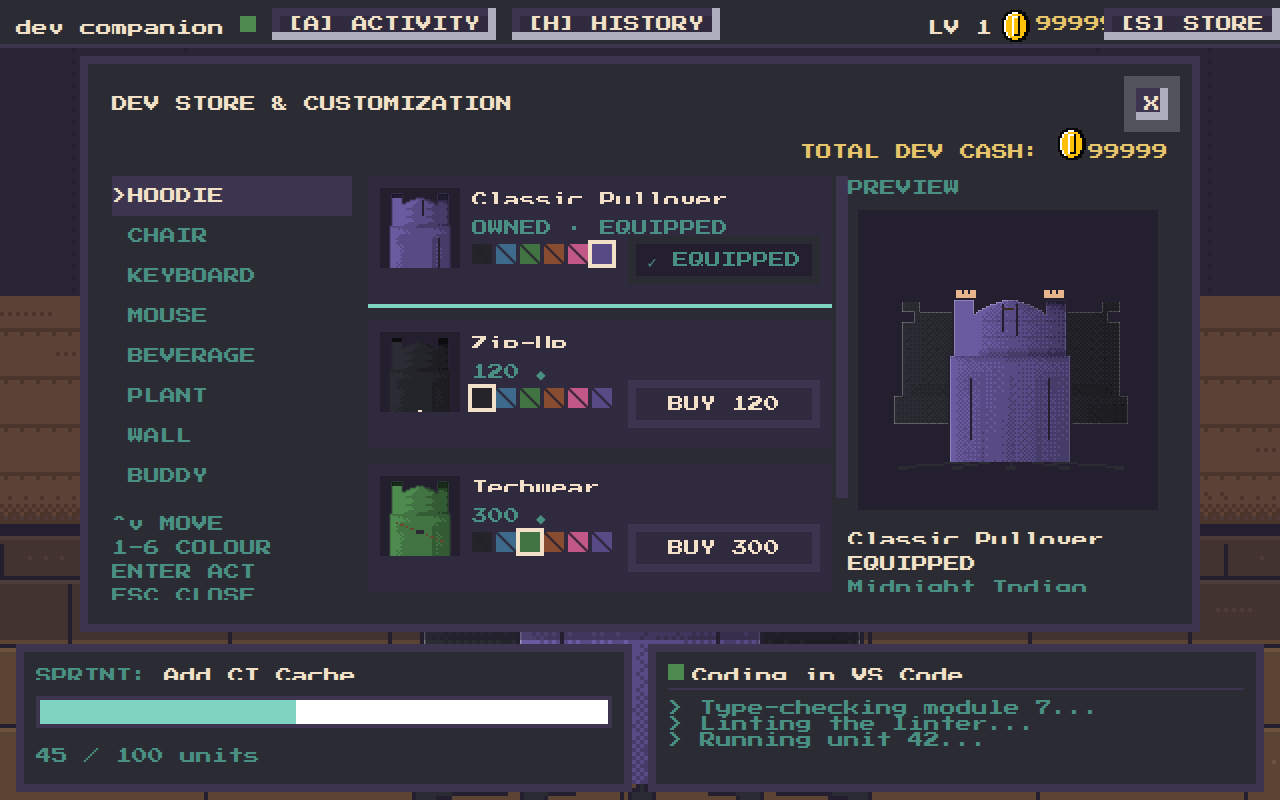
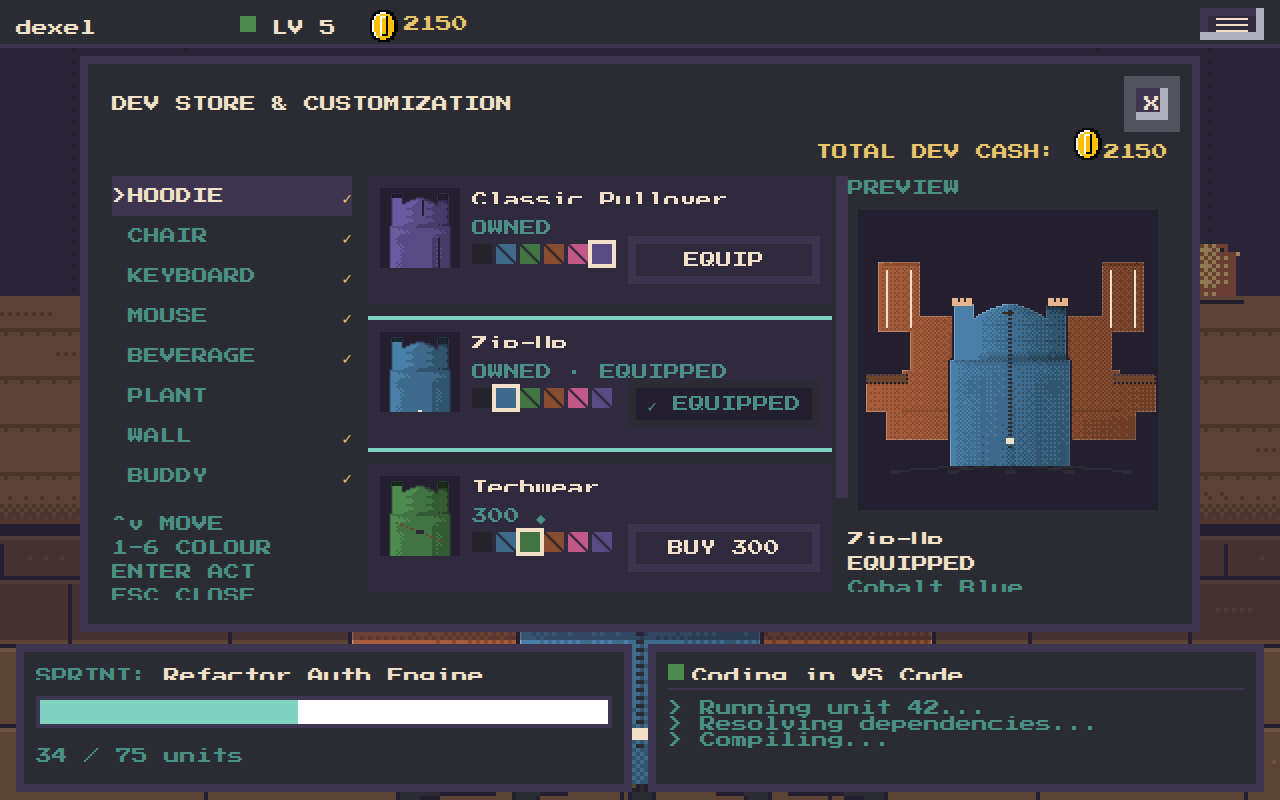
docs: refresh screenshots + add cross-platform build instructions
- Re-captured hero/store/history from the real running game: they now show the
  dexel titlebar, the hamburger menu + top-left coin, and the fixed seated
  chair (visible in the scene and the store preview).
- README "Building from source": prerequisites, `go build -o dexel .` per OS,
  a platform activity-capture matrix (macOS permissionless, Linux input group,
  Windows/other currently blind with no native provider — stated honestly per
  ADR 0010), cross-compilation notes, and a pointer to the planned Tauri app.

Claude-Session: https://claude.ai/code/session_01AUCCPCv7iGyM8erbdKH5UY

diff --git a/README.md b/README.md
@@ -46,7 +46,9 @@ frontend over a WebSocket at `http://127.0.0.1:8080`.
 
 ## Quick start
 
-Requires [Go 1.27](https://go.dev/dl/) or newer.
+Requires [Go 1.27](https://go.dev/dl/) or newer. Node/npm are **not**
+needed to run the game — only if you're changing the frontend (see
+[Building from source](#building-from-source) below).
 
 ```bash
 git clone git@github.com:jawwadzafar/dexel.git
@@ -55,31 +57,18 @@ go run .
 ```
 
 Open **http://localhost:8080**. That's it — the compiled frontend bundle is
-committed, so no Node/npm is required just to run the game.
+committed, so `go run .` alone always serves a working game with zero
+Node/npm involved.
 
 By default the server binds to `127.0.0.1:8080` (loopback only). Binding
 `-addr` beyond `127.0.0.1`/`localhost` exposes the activity monitor and your
 save file to your LAN or tailnet — the flag's own help text warns about
 this; leave it at the default unless you specifically intend that.
 
-### macOS
-
-- **No permission prompt.** The activity provider polls
-  `CGEventSourceSecondsSinceLastEventType` — a system timestamp delta, not a
-  keystroke tap — so there is no Accessibility dialog to click through.
-
-### Linux
-
-Same commands. The activity provider reads raw `/dev/input/event*` nodes,
-which needs your user in the `input` group:
-
-```bash
-sudo usermod -aG input "$USER"    # then log out and back in
-```
-
-Without that group membership the server still runs; it just can't see
-global input, so activity only counts while the browser tab itself has
-focus, and the honesty rules above freeze rather than guess at idle time.
+macOS and Linux both run the exact commands above; see
+[Building from source](#building-from-source) for platform setup (Linux
+needs one group membership), what to expect on Windows, building a
+standalone binary, and cross-compiling.
 
 ### Troubleshooting
 
@@ -91,6 +80,95 @@ focus, and the honesty rules above freeze rather than guess at idle time.
 - **Check what the server actually found:** `GET /api/health` returns the
   resolved `assetsDir`, whether `public/index.html` was found, and the
   build version.
+
+## Building from source
+
+### Prerequisites
+
+| Need | Requirement |
+|---|---|
+| Build or run the server | [Go 1.27](https://go.dev/dl/) or newer |
+| Change the frontend | Node + npm (see [`app/frontend/README.md`](app/frontend/README.md)) |
+
+The compiled frontend bundle (`app/public/js/game.js`) is committed to the
+repo, so `go build`/`go run .` alone always produce a working game with
+zero Node/npm involved. Node is only needed if you edit
+`app/frontend/src/*.ts` and want to rebuild that bundle — see
+[Development](#development) below.
+
+### Build a binary
+
+From `app/`:
+
+```bash
+cd app
+go build -o dexel .        # Windows: go build -o dexel.exe .
+./dexel                    # Windows: dexel.exe
+```
+
+Then open **http://localhost:8080**. For iterating on the Go source
+without a separate build step, use `go run .` instead (as in
+[Quick start](#quick-start)) — both accept the same flags, documented in
+[Configuration](#configuration).
+
+### Platform support for activity capture
+
+The server **runs on every platform Go supports**; what differs is
+whether it can see your real typing/mouse activity *globally*, which is
+what advances sprints and drives the honest mood/idle logic:
+
+| Platform | Global activity capture | Setup |
+|---|---|---|
+| macOS | Yes — permissionless | None. Polls `CGEventSourceSecondsSinceLastEventType` (a system timestamp delta, not a keystroke tap), so there's no Accessibility dialog to click through. |
+| Linux | Yes — needs one group membership | Add your user to the `input` group (below); it reads raw `/dev/input/event*` nodes. |
+| Windows (and any other OS) | **No native provider yet** | None available. See below. |
+
+**Linux:** grant access to the raw input devices, then log out and back
+in:
+
+```bash
+sudo usermod -aG input "$USER"    # then log out and back in
+```
+
+Without that group membership the server still runs; it just can't see
+global input, so activity only counts while the browser tab itself has
+focus, and the honesty rules above freeze rather than guess at idle time.
+
+**Windows — be aware of this before you rely on it:** dexel builds and
+runs on Windows and the web UI works fully, but there is currently **no
+native global activity provider** for Windows. It falls back to a
+permanently-blind, zero-signal provider by deliberate design (ADR 0010's
+honesty rules would rather freeze than fabricate activity — see
+[ADR 0010](docs/adr/0010-mac-first-honest-mechanics.md) and
+[ADR 0011](docs/adr/0011-engine-pivot-to-pdf-native-stack.md)). Concretely:
+sprints will **not** advance from real global typing on Windows yet — this
+is stated plainly here so nobody mistakes it for a bug. A native Windows
+provider is future work, not yet started.
+
+### Cross-compiling
+
+Go can cross-compile a binary for another OS/architecture from any host,
+e.g. building a Windows binary from macOS or Linux:
+
+```bash
+GOOS=windows GOARCH=amd64 go build -o dexel.exe .
+GOOS=darwin  GOARCH=arm64 go build -o dexel .
+GOOS=linux   GOARCH=amd64 go build -o dexel .
+```
+
+The caveat: activity capture is OS-native code (see the table above), so a
+cross-built binary only ever gets the provider its *target* OS has — a
+Windows binary cross-built from a Mac still has no native activity
+provider, because none exists yet for Windows.
+
+### Packaged desktop app (planned, not shipped)
+
+A native desktop build via [Tauri](https://tauri.app/) — targeting macOS,
+Windows, and Linux, x86_64 + arm64 — is planned so users won't need a
+terminal or a browser tab at all. It's tracked as F3 in
+[`docs/plan/ROADMAP.md`](docs/plan/ROADMAP.md) and is **not shipped yet**;
+today, running from source (`go run .`) or a `go build` binary as above is
+the only way to run dexel.
 
 ## Controls
 

diff --git a/docs/plan/ORCHESTRATION-LOG.md b/docs/plan/ORCHESTRATION-LOG.md
@@ -35,3 +35,4 @@ alone. The master plan lives in `v0.4-behind-view-plan.md`.
 | 2026-08-22 | **Art fix: dev now reads as SEATED** (was ambiguous — user flagged it looked "prone on a mat"). Root cause (overseer-diagnosed): CHAIR_RECT tops sat at/below DEV_RECT.top=92, so no chair back ever rose behind the dev's upper body → read as a flat mat. Confirmed the chair-SWAP itself works (earlier "swap does nothing" was a malformed devApply test passing a bare string instead of {itemId,tintId}). Fix (one Opus art agent, owned tools/gen_assets.py + assets/ + geometry.ts + rebuilt bundle): raised/enlarged all four CHAIR_RECTs so backs rise to/above the dev's head; redrew every chair with a tall backrest + armrests (basic mesh back+corner posts, racer stitched bolster wings, exec tufted high-back, antigrav rounded cradle pod — no longer an empty lump); refreshed 8 chair thumbnails. Kept palette/ramp discipline (tint headroom on ramp4, verified default slate not crushed), DEV_RECT stable. Overseer visual gate PASSED (own eyes, all four chairs + default): each unmistakably reads as seated; tsc clean, deterministic bundle, go build clean, zero console errors, save restored byte-exact. No sell/OSS/rename decisions made — user deliberating; this improvement lands regardless. |
 | 2026-08-22 | **RENAMED dev-companion → dexel + went Apache-2.0 (OSS-ready, repo stays PRIVATE until user says).** Two parallel agents, disjoint ownership. CODE (app/** + CI): Go module `github.com/jawwadzafar/dev-companion/app` → `github.com/jawwadzafar/dexel/app` (22 files), save dir `~/.config/devcompanion/` → `~/.config/dexel/` (CLEAN rename, NO migration per user — nothing shipped, start fresh), env `DEVCOMPANION_*` → `DEXEL_*` (no back-compat), brand strings (titlebar, <title>, log line, package.json) → dexel; in-game flavor ("Dev Cash", "DEV STORE", "dev" character) preserved. Left legacy.go's LegacyPath() on "dev-companion" deliberately — it's the frozen Rust binary's REAL save path, not our brand. DOCS (README/docs/AGENTS + LICENSE): brand rename (25 edits/10 files), added LICENSE (Apache-2.0, Copyright 2026 Jawwad Zafar), NOTICE, THIRD-PARTY-LICENSES.md (NES.css MIT, Press Start 2P OFL-1.1, nhooyr websocket ISC, esbuild MIT, TypeScript Apache-2.0); left frozen-Rust paths / historical logs / real external refs unchanged (would falsify records). Overseer gate PASSED: clean-cache `go build`/`go vet`/`go test -race` all green on the dexel module path; tsc clean; deterministic bundle; real-run shows "dexel listening" + <title>dexel; no brand stragglers outside intentional legacy exceptions. |
 | 2026-08-22 | **UI-1 DONE — hamburger menu + coin top-left.** Replaced the three separate [A]/[H]/[S] titlebar launchers with one ☰ hamburger (top-right, built from 3 CSS bars not a glyph — A2 lesson) opening a dropdown listing Store/Activity/History; moved Dev Cash/coin + LV + wordmark into a top-left cluster. New feature module features/menu.ts (open/close/toggle, outside-click + Esc close, generic .menu-item routing so future sections need zero code here); the store/activity/history modal modules + their ids untouched (menu just relocates the launchers). Keybindings: M toggles menu, S/A/H still open modals directly (closing the menu first). Agent caught a real bug via click-testing: a `position:static` override broke NES.css .nes-btn's ::after pixel-shadow containing block, ballooning pseudo-elements so every menu click hit History — fixed. Overseer gate PASSED (own eyes + interaction): coin at x184 (left), hamburger at x600 (right), menu opens, all three sections open from it + menu closes, keyboard S/A/H still work, dexel wordmark + fixed seated chair visible, zero console errors; tsc clean, deterministic bundle, go build clean. |
+| 2026-08-22 | **UI-2 DONE — README screenshots refreshed + cross-platform build docs.** Overseer re-captured hero/store/history from the real running game (now showing the dexel titlebar, the hamburger UI + top-left coin, and the fixed seated chair — incl. the chair in the store preview pane) → docs/images/. Docs agent added a "Building from source" section: prerequisites (Go 1.27+; Node only to change frontend), `go build -o dexel .` per-OS, a platform activity-capture matrix (macOS permissionless / Linux input-group / Windows+other = blind, no native provider yet, honest per ADR 0010), cross-compile notes, and a "packaged desktop app via Tauri (planned)" pointer. Verified: links/images resolve, flags match main.go, provider behavior accurate. |
